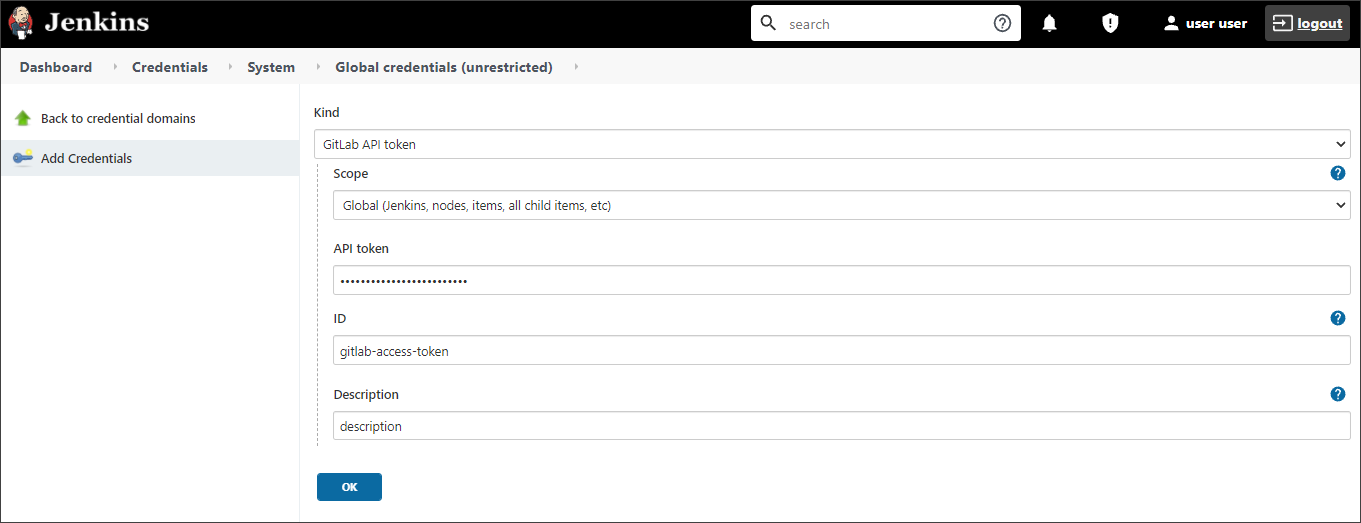
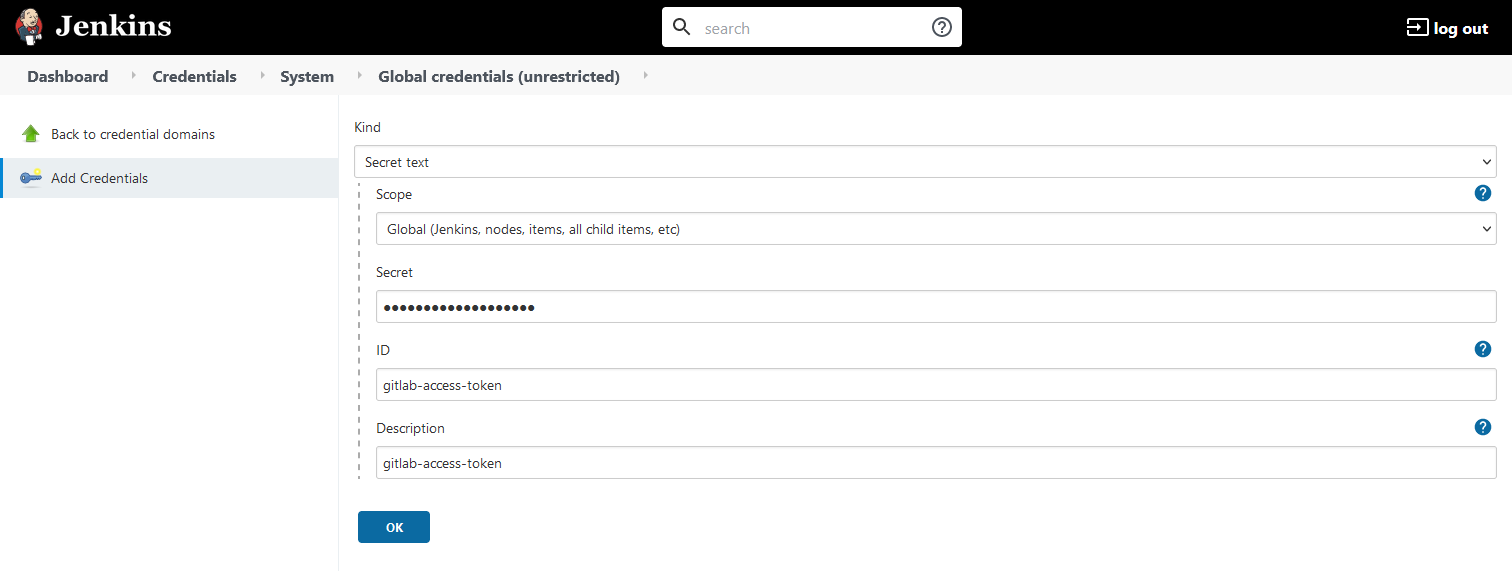
[EPMDEDP-8121]: docs: Refactor import strategy documentation

diff --git a/docs/operator-guide/gitlab-integration.md b/docs/operator-guide/gitlab-integration.md
@@ -1,14 +1,19 @@
 # GitLab Integration
 
-Discover the steps below to apply the GitLab integration correctly:
+Discover the steps below to apply the GitLab integration correctly.
 
 !!! note
     Before applying the GitLab integration, make sure to enable VCS Import strategy. For details, please refer to the [Enable VCS Import Strategy](import-strategy.md) section.
 
+1. Create a new **Job Provision** by following the [instruction](manage-jenkins-ci-job-provision.md#gitlab-gitlab).The job provisioner will create a job suite for an application added to EDP. It will also create webhooks for the project in GitLab.
+
+!!! note
+    The steps below are required in order to automatically create and integrate Jenkins GitLab webhooks.
+
 1. Create access token in **Gitlab**:
 
   * Log in to **GitLab**;
-  * In the top-right corner, click your avatar and select **Settings**;
+  * In the top-right corner, click the avatar and select **Settings**;
   * On the **User Settings** menu, select **Access Tokens**;
   * Choose a name and an optional expiry date for the token;
   * In the Scopes block, select the *api* scope for the token;
@@ -18,23 +23,25 @@ Discover the steps below to apply the GitLab integration correctly:
   * Click the **Create personal access token** button.
 
   !!! note
-      Make sure to save the access token as there won`t be the ability to access it once again.
+      Make sure to save the access token as there will not be any ability to access it once again.
 
-2. Install **GitLab plugin** (if not installed) by navigating to *Manage Jenkins* and switching to plugin manager, select the **GitLab Plugin** check box:
+2. Create Jenkins Credential ID by navigating to **Jenkins -> Credentials -> System -> Global Credentials -> Add Credentials**:
 
-  ![gitlab-plugin](../assets/operator-guide/gitlab-plugin.png "gitlab-plugin")
-
-3. Create Jenkins Credential ID by navigating to *Jenkins -> Credentials -> System -> Global Credentials -> Add Credentials*:
-
-  * Select GitLab API token;
+  * Select Kind **Secret text**;
   * Select Global scope;
-  * API token - the **Access Token** that was created earlier;
+  * Secret - the **Access Token** that was created earlier;
   * ID - the **gitlab-access-token** ID;
   * Description - the description of the current Credential ID;
 
   ![jenkins-cred](../assets/operator-guide/jenkins-cred.png "jenkins-cred")
 
-4. Configure **Gitlab plugin** by navigating to *Manage Jenkins -> Configure System* and fill in the **GitLab plugin** settings:
+  !!! warning
+      Using the GitLab integration, a webhook is automatically created. After the removal of the application, the webhook stops working but not deleted. If necessary, it must be deleted manually.
+
+  !!! note
+      The next step is necessary if it is needed to see the status of Jenkins Merge Requests builds in the GitLab CI/CD Pipelines section.
+
+3. Configure **Gitlab plugin** by navigating to **Manage Jenkins -> Configure System** and fill in the **GitLab plugin** settings:
 
   * Connection name - gitlab;
   * Gitlab host URL - a host URL to GitLab;
@@ -42,13 +49,13 @@ Discover the steps below to apply the GitLab integration correctly:
 
   ![gitlab-plugin-configuration](../assets/operator-guide/gitlab-plugin-configuration.png "gitlab-plugin-configuration")
 
-5. Create a new **Job Provision** by following the [instruction](manage-jenkins-ci-job-provision.md#gitlab-gitlab).
+  This is how the Merge Requests build statuses look like in the GitLab CI/CD Pipelines section:
 
-  !!! warning
-      Using the GitLab integration, a webhook is automatically created. After the removal of the application, the webhook stops working but not deleted. If necessary, it must be deleted manually.
+  ![gitlab-mr-statuses](../assets/operator-guide/gitlab-pipeline-stats.png "gitlab-mr-statuses")
 
 ### Related Articles
 
 * [Adjust Jira Integration](jira-integration.md)
 * [Enable VCS Import Strategy](import-strategy.md)
+* [Jenkins integration with GitLab](https://docs.gitlab.com/ee/integration/jenkins.html)
 * [Manage Jenkins CI Pipeline Job Provision](manage-jenkins-ci-job-provision.md)

diff --git a/docs/operator-guide/import-strategy.md b/docs/operator-guide/import-strategy.md
@@ -1,17 +1,24 @@
 # Enable VCS Import Strategy
 
+!!! note
+    Enabling the VCS Import strategy is a prerequisite to integrate EDP with GitLab or GitHub.
+
 In order to use the **Import** strategy, it is required to add a Secret with SSH key, GitServer Custom Resource, and Jenkins credentials by taking the steps below.
 
-1. Create a `Secret` in the &#8249;edp-project&#8250; namespace for the Git account with the **id_rsa**, **id_rsa.pub**, and **username** fields.
+1. Generate an SSH key pair and add a public key to [GitLab](https://docs.gitlab.com/ee/ssh/) or [GitHub](https://docs.github.com/en/authentication/connecting-to-github-with-ssh/generating-a-new-ssh-key-and-adding-it-to-the-ssh-agent) account.
 
-  As a sample, it is possible to use the following command:
+      ssh-keygen -t ed25519 -C "email@example.com"
+
+2. Create a `Secret` in the &#8249;edp-project&#8250; namespace for the Git account with the **id_rsa**, **id_rsa.pub**, and **username** fields.
+
+  As a sample, it is possible to use the following command (use *github-sshkey* instead of *gitlab-sshkey* for GitHub):
 
       kubectl create secret generic gitlab-sshkey -n <edp-project> \
         --from-file=id_rsa=id_rsa \
         --from-file=id_rsa.pub=id_rsa.pub \
         --from-literal=username=user@example.com
 
-2. Create `GitServer` Custom Resource in the project namespace with the **gitHost**, **gitUser**, **httpsPort**, **sshPort**, **nameSshKeySecret**, and **createCodeReviewPipeline** fields.
+3. Create `GitServer` Custom Resource in the project namespace with the **gitHost**, **gitUser**, **httpsPort**, **sshPort**, **nameSshKeySecret**, and **createCodeReviewPipeline** fields.
 
   As a sample, it is possible to use the following template:
 
@@ -31,7 +38,7 @@ In order to use the **Import** strategy, it is required to add a Secret with SSH
   !!! note
       The value of the **nameSshKeySecret** property is the name of the Secret that is indicated in the first point above.
 
-3. Create `Jenkinsserviceaccount` Custom Resource with the **credentials** field that corresponds to the **nameSshKeySecret** property above.
+4. Create `Jenkinsserviceaccount` Custom Resource with the **credentials** field that corresponds to the **nameSshKeySecret** property above.
 
       apiVersion: v2.edp.epam.com/v1alpha1
       kind: JenkinsServiceAccount
@@ -47,7 +54,7 @@ In order to use the **Import** strategy, it is required to add a Secret with SSH
 
   ![credential](../assets/operator-guide/add-credentials.png "credential")
 
-4. Make sure that the value of **INTEGRATION_STRATEGIES** variable is set to **Import** in the edp-admin-console deployment (should be by default). You can check it here:
+5. Make sure that the value of **INTEGRATION_STRATEGIES** variable is set to **Import** in the edp-admin-console deployment (should be by default). You can check it here:
 
       spec:
         containers:
@@ -60,4 +67,13 @@ In order to use the **Import** strategy, it is required to add a Secret with SSH
   !!! note
       The default values can be found in the deployment templates for `edp-admin-console-operator` in [edp-install umbrella chart](https://github.com/epam/edp-install/blob/master/deploy-templates/values.yaml)
 
-5. The **Import** strategy can be found on the **Applications** page of the Admin Console. For details, please refer to the [Add Applications](../user-guide/add-application.md) page.
+!!! note
+    The **Import** strategy can be found on the **Applications** page of the Admin Console. For details, please refer to the [Add Applications](../user-guide/add-application.md) page.
+
+The next step is to integrate Jenkins with [GitHub](github-integration.md) or [GitLab](gitlab-integration.md).
+
+### Related Articles
+
+* [Add Application](../user-guide/add-application.md)
+* [GitHub Integration](github-integration.md)
+* [GitLab Integration](gitlab-integration.md)

diff --git a/docs/operator-guide/github-integration.md b/docs/operator-guide/github-integration.md
@@ -1,9 +1,14 @@
 # GitHub Integration
 
-Discover the steps below to apply the GitHub integration correctly:
+Discover the steps below to apply the GitHub integration correctly.
 
 !!! note
     Before applying the GitHub integration, make sure to enable VCS Import strategy. For details, please refer to the [Enable VCS Import Strategy](import-strategy.md) section.
+
+1. Create a new **Job Provision** by following the [instruction](manage-jenkins-ci-job-provision.md#github-github). The job provisioner will create a job suite for an application added to EDP. It will also create webhooks for the project in GitHub.
+
+!!! note
+    The steps below are required in order to automatically create and integrate Jenkins with GitHub webhooks.
 
 1. Create access token for GitHub:
 
@@ -13,35 +18,29 @@ Discover the steps below to apply the GitHub integration correctly:
 
   ![scopes-1](../assets/operator-guide/github-scopes-1.png "scopes-1")
 
-  !!! warning
-      Make sure to copy your new personal access token right at this moment because there will not be any ability to see it again.
-
-2. Navigate to *Jenkins -> Manage Jenkins -> Manage plugins*, and click the Available tab and install the following plugins: **GitHub** and **GitHub Pull Request Builder**.
-
   !!! note
-      If the necessary plugins are not available in the list, check out the Installed tab and verify whether they are presented.
+      The access is required for the GitHub Pull Request Builder plugin to get Pull Request commits, their status, and author info.
 
-3.	Navigate to *Jenkins -> Credentials -> System -> Global credentials -> Add credentials*, and create new credentials with the *Secret text* kind. In the Secret field, provide your GitHub API token, fill in the *ID* field with the *github-access-token* value:
+  ![scopes-2](../assets/operator-guide/github-scopes-2.png "scopes-2")
+  ![scopes-3](../assets/operator-guide/github-scopes-3.png "scopes-3")
+
+  !!! warning
+      Make sure to copy a new personal access token right at this moment because there will not be any ability to see it again.
+
+2. Navigate to **Jenkins -> Credentials -> System -> Global credentials -> Add credentials**, and create new credentials with the **Secret text** kind. In the Secret field, provide the GitHub API token, fill in the **ID** field with the **github-access-token** value:
 
   ![jenkins_github_cred](../assets/operator-guide/api_token2.png "jenkins_github_cred")
 
-4. Generate and add a new SSH key to the GitHub account. To get more detailed information, please inspect the [official GitHub documentation](https://help.github.com/en/github/authenticating-to-github/adding-a-new-ssh-key-to-your-github-account) page.
-
-  !!! note
-      Use the same SSH key that was added to the GitServer definition.
-
-5.	Navigate to *Jenkins -> Manage Jenkins -> Configure system -> GitHub* part, and configure the GitHub server:
+3.	Navigate to **Jenkins -> Manage Jenkins -> Configure system -> GitHub**, and configure the GitHub server:
 
   ![github_plugin_config](../assets/operator-guide/github_int.png "github_plugin_config")
 
-6.	Configure the GitHub Pull Request Builder plugin:
+4. Configure the GitHub Pull Request Builder plugin (this plugin is responsible for listening on Pull Request webhook events and triggering Code Review jobs):
 
   !!! note
       The **Secret** field is optional, for details, please refer to the official [GitHub pull request builder plugin documentation](https://wiki.jenkins.io/display/JENKINS/GitHub+pull+request+builder+plugin).
 
   ![github_pull_plugin_config](../assets/operator-guide/pull_request.png "github_pull_plugin_config")
-
-7. Create a new **Job Provision** by following the [instruction](manage-jenkins-ci-job-provision.md#github-github).
 
 ### Related Articles
 
